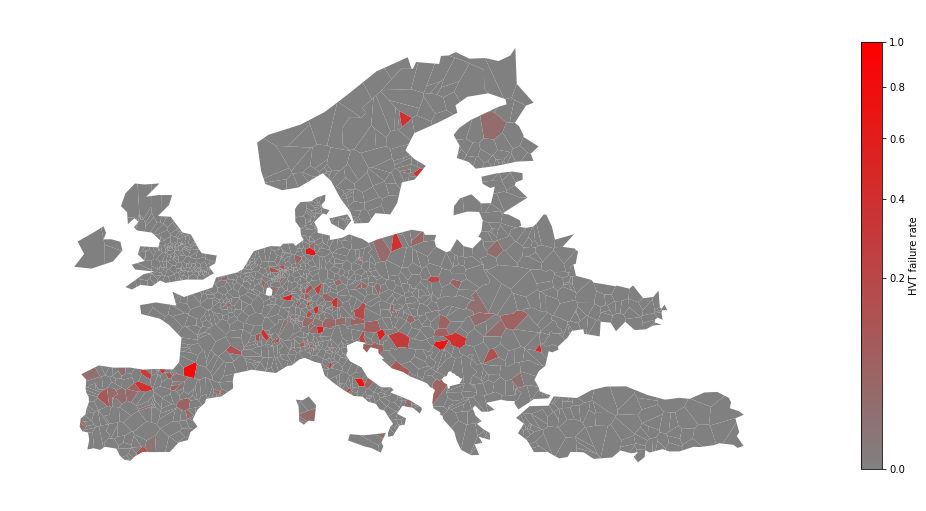
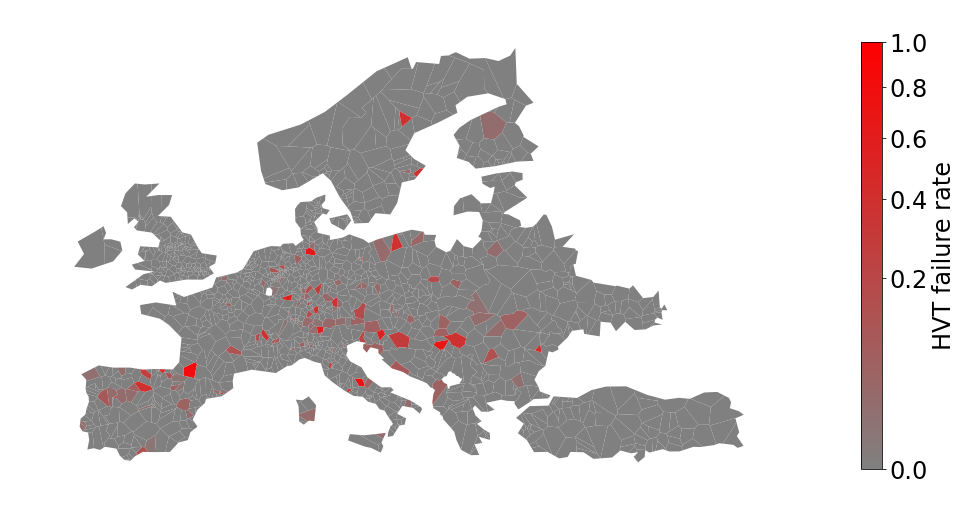
update figs

Changed region(s): [[0.0605, 0.0881, 0.8164, 0.91], [0.8769, 0.0587, 0.9978, 0.9393], [0.0907, 0.4403, 0.121, 0.4697]]

diff --git a/plotVoronoiFromPkl.py b/plotVoronoiFromPkl.py
@@ -56,9 +56,11 @@ def plotCombinedVoronoi(sRegions, region, rate, cutoff=True):
     )
 
 
-file = "Data/SmallData/combinedVoronoi_europe_0.0001.pkl"
+plt.rcParams.update({"font.size": 24})
+
+# file = "Data/SmallData/combinedVoronoi_europe_0.0001.pkl"
 # file = "Data/SmallData/combinedVoronoi_usa_0.0001.pkl"
-# file = "Data/SmallData/combinedVoronoi_northamerica_0.0001.pkl"
+file = "Data/SmallData/combinedVoronoi_northamerica_0.0001.pkl"
 
 sRegions = pd.read_pickle(file)
 rate = float(file[file.rfind("_") + 1 : file.rfind(".")])

diff --git a/barplot_CELE.py b/barplot_CELE.py
@@ -3,8 +3,8 @@ import pandas as pd
 import matplotlib.pyplot as plt
 import seaborn as sb
 
-# plt.rcParams.update({"font.size": 32})
 sb.set_context("poster")
+plt.rcParams.update({"font.size": 24})
 # europe pop taken from https://www.worldometers.info/world-population/europe-population/
 # usa from Data/SmallData/ElectricityByNation/PopByCountry.csv
 # year=2018
